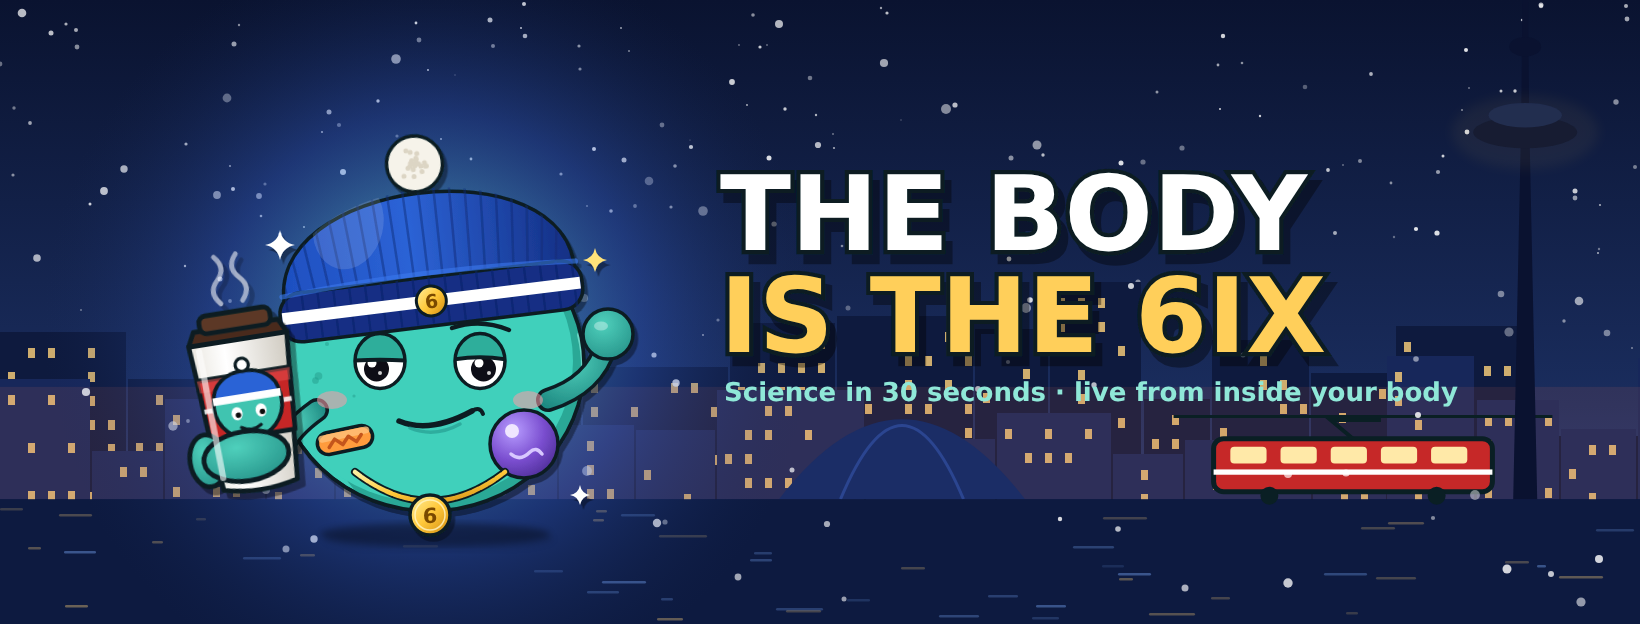
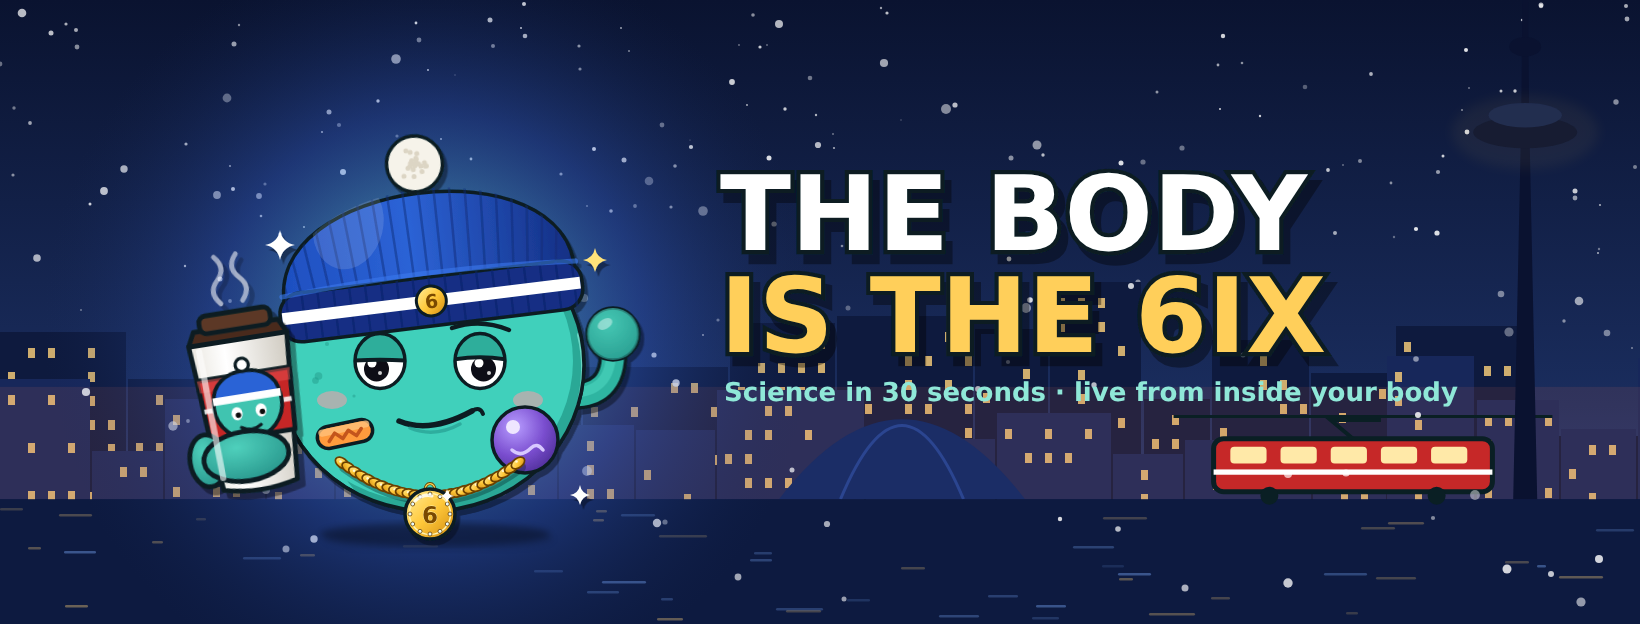
Rebrand v2.3: linked gold chain, redone arms, outfit system (jersey, hoodie, puffer)
Claude-Session: https://claude.ai/code/session_01YLZ2csSozvptdvtP7YVaK8

Changed region(s): [[0.2177, 0.4872, 0.4043, 0.883], [0.1866, 0.6394, 0.2488, 0.7612]]

diff --git a/studio/branding/rebrand-v2/cyto2d.js b/studio/branding/rebrand-v2/cyto2d.js
@@ -47,20 +47,62 @@ function cup(){return `<g transform="translate(-362,92) rotate(-9) scale(1.38)" 
  <g ${O} fill="url(#skinArm)"><ellipse cx="-70" cy="62" rx="26" ry="38"/><ellipse cx="-14" cy="64" rx="62" ry="36"/></g>
  <path d="M-58 -96 L-52 90" stroke="#fff" stroke-width="9" stroke-linecap="round" opacity=".6"/>
 </g>`}
-function cyto(){
+
+function chain(){ // cuban-style links along a curve + bling pendant
+ const P0=[-176,196],C=[0,326],P1=[176,196]; let links='';
+ const N=26;
+ for(let i=0;i<=N;i++){const t=i/N; const x=(1-t)*(1-t)*P0[0]+2*(1-t)*t*C[0]+t*t*P1[0]; const y=(1-t)*(1-t)*P0[1]+2*(1-t)*t*C[1]+t*t*P1[1];
+  const dx=2*(1-t)*(C[0]-P0[0])+2*t*(P1[0]-C[0]), dy=2*(1-t)*(C[1]-P0[1])+2*t*(P1[1]-C[1]); const ang=Math.atan2(dy,dx)*180/Math.PI;
+  const rot=ang+(i%2?90:0), rx=i%2?9:15, ry=i%2?15:9.5;
+  links+=`<ellipse cx="${x.toFixed(1)}" cy="${y.toFixed(1)}" rx="${rx}" ry="${ry}" transform="rotate(${rot.toFixed(1)} ${x.toFixed(1)} ${y.toFixed(1)})" fill="url(#gold)" stroke="#6b4100" stroke-width="3.5"/>`;
+  if(i%2===0) links+=`<circle cx="${(x-3).toFixed(1)}" cy="${(y-3).toFixed(1)}" r="2.6" fill="#fffbe0" opacity=".9"/>`}
+ let gems=''; for(let i=0;i<12;i++){const a=i/12*6.283; gems+=`<circle cx="${(Math.cos(a)*40).toFixed(1)}" cy="${(Math.sin(a)*40).toFixed(1)}" r="4" fill="#e8fbff" stroke="#6b4100" stroke-width="1.6"/>`}
+ return `<path d="M-176 196 Q0 326 176 196" fill="none" stroke="#0a1f24" stroke-width="22" stroke-linecap="round" opacity=".35" transform="translate(5 8)"/>${links}
+ <g transform="translate(0,298)"><ellipse cx="0" cy="-48" rx="10" ry="13" fill="none" stroke="#6b4100" stroke-width="6"/><ellipse cx="0" cy="-48" rx="10" ry="13" fill="none" stroke="#ffd95a" stroke-width="2.5"/>
+  <circle r="50" fill="url(#gold)" ${O}/><circle r="41" fill="none" stroke="#fff3b0" stroke-width="3"/>${gems}
+  <text y="17" text-anchor="middle" font-family="Arial Black, Impact, DejaVu Sans, sans-serif" font-weight="900" font-size="46" fill="#7a4a00" stroke="#fff3b0" stroke-width="1.5" paint-order="stroke">6</text>
+  <path d="M-30 -26 Q-14 -40 4 -36" fill="none" stroke="#fff" stroke-width="6" stroke-linecap="round" opacity=".8"/></g>
+ ${sparkle(34,262,14,'#fff')}`}
+function arm(d,w=42){return `<path d="${d}" fill="none" stroke="#0a1f24" stroke-width="${w+14}" stroke-linecap="round" stroke-linejoin="round"/><path d="${d}" fill="none" stroke="#2fb5a1" stroke-width="${w}" stroke-linecap="round" stroke-linejoin="round"/><path d="${d}" fill="none" stroke="#4fd8c3" stroke-width="${w*0.45}" stroke-linecap="round" stroke-linejoin="round" opacity=".55" transform="translate(-4 -5)"/>`}
+function garment(fit){
+ if(fit==='none') return '';
+ const hem='M-330 104 Q0 236 330 104 L330 340 L-330 340Z';
+ let g=`<g clip-path="url(#bodyclip2)">`;
+ if(fit==='jersey'){
+  g+=`<path d="${hem}" fill="#1f4fc0"/><path d="M-330 214 Q0 292 330 214 L330 236 Q0 314 -330 236Z" fill="#fff"/><path d="M-330 252 Q0 330 330 252 L330 270 Q0 348 -330 270Z" fill="#fff"/>
+   <path d="M-330 104 Q0 236 330 104" fill="none" stroke="#fff" stroke-width="12"/><path d="M-330 104 Q0 236 330 104" fill="none" stroke="#0a1f24" stroke-width="7" transform="translate(0 -9)" opacity=".0"/>
+   <text x="0" y="248" text-anchor="middle" transform="scale(1,.92)" font-family="Arial Black, Impact, DejaVu Sans, sans-serif" font-weight="900" font-size="54" fill="#fff" stroke="#0e2468" stroke-width="5" paint-order="stroke" opacity="0">6IX</text>
+   <path d="M-330 104 Q0 236 330 104 L330 340 L-330 340Z" fill="none" stroke="#0a1f24" stroke-width="7"/>`;
+ } else if(fit==='hoodie'){
+  g+=`<path d="${hem}" fill="#2a2d36"/><path d="M-330 104 Q0 236 330 104" fill="none" stroke="#3b3f4b" stroke-width="16"/>
+   <path d="M-130 206 Q0 262 130 206 L156 306 Q0 338 -156 306Z" fill="#23262e" stroke="#0a1f24" stroke-width="5"/>
+   <path d="M-34 170 L-40 222" stroke="#f4f1e8" stroke-width="7" stroke-linecap="round"/><path d="M34 170 L40 222" stroke="#f4f1e8" stroke-width="7" stroke-linecap="round"/>
+   <circle cx="-40" cy="230" r="6" fill="#f4f1e8"/><circle cx="40" cy="230" r="6" fill="#f4f1e8"/>
+   <path d="M-330 296 Q0 390 330 296 L330 340 L-330 340Z" fill="#171920"/>
+   <path d="M-330 104 Q0 236 330 104 L330 340 L-330 340Z" fill="none" stroke="#0a1f24" stroke-width="7"/>`;
+ } else if(fit==='puffer'){
+  g+=`<path d="${hem}" fill="#f0a722"/>`;
+  for(const y of [150,196,242]) g+=`<path d="M-330 ${y} Q0 ${y+88} 330 ${y}" fill="none" stroke="#b86d0a" stroke-width="7"/>`;
+  g+=`<path d="M-330 104 Q0 236 330 104" fill="none" stroke="#ffd36a" stroke-width="12"/><path d="M0 170 L0 340" stroke="#b86d0a" stroke-width="7"/><path d="M-330 104 Q0 236 330 104 L330 340 L-330 340Z" fill="none" stroke="#0a1f24" stroke-width="7"/>
+   <path d="M-210 215 Q-130 235 -60 222" fill="none" stroke="#ffe39a" stroke-width="8" stroke-linecap="round" opacity=".6"/>`;
+ }
+ return g+`</g>`}
+function cyto(fit='none'){
  let spots=''; for(let i=0;i<22;i++){const a=rnd()*6.28,r=Math.sqrt(rnd())*260;const x=Math.cos(a)*r,y=Math.sin(a)*r*0.95+20;
-  if(Math.abs(x)<190&&y>-100&&y<30) continue; if(Math.abs(x)<130&&y>40&&y<170) continue; if(y<-60) continue; if(x>100&&y>80) continue;if(x<-110&&y>70&&x>-270) continue; if(y>150) continue;
+  if(Math.abs(x)<190&&y>-100&&y<30) continue; if(Math.abs(x)<130&&y>40&&y<170) continue; if(y<-60) continue; if(x>100&&y>80) continue;if(x<-110&&y>70&&x>-270) continue; if(y>130) continue;
   spots+=`<circle cx="${x.toFixed(0)}" cy="${y.toFixed(0)}" r="${(3+rnd()*5).toFixed(1)}" fill="#25a090" opacity=".55"/>`}
  let ribs=''; for(let i=-10;i<=10;i++) ribs+=`<path d="M${i*28} -140 L${i*32} -400" stroke="#102a74" stroke-width="5" opacity=".45"/>`;
  let cuffr=''; for(let i=-9;i<=9;i++) cuffr+=`<path d="M${i*32} -176 L${i*32} -82" stroke="#0e2468" stroke-width="5" opacity=".55"/>`;
  let pom=''; for(let i=0;i<24;i++){const a=rnd()*6.28,r=rnd()*34;pom+=`<circle cx="${(Math.cos(a)*r).toFixed(0)}" cy="${(Math.sin(a)*r).toFixed(0)}" r="5" fill="#dcd5c4"/>`}
+ const hand=(x,y)=>`<g transform="translate(${x},${y})"><circle r="52" fill="#2fb5a1" ${O}/><circle r="52" fill="url(#skinArm)" opacity=".7"/><ellipse cx="-16" cy="-20" rx="16" ry="10" fill="#fff" opacity=".4" transform="rotate(-30 -16 -20)"/></g>`;
  return `<g filter="url(#cut)">
  <ellipse cx="10" cy="338" rx="230" ry="24" fill="#000" opacity=".3" filter="url(#soft)"/>
+ <!-- arms emerge from behind the body edge -->
+ ${arm("M268 60 Q372 70 366 -34",44)}${hand(366,-62)}
+ ${arm("M-268 82 Q-318 112 -322 164",44)}
  <!-- body -->
  <ellipse rx="308" ry="292" fill="#3fd0bb" ${O}/>
  <g clip-path="url(#bodyclip2)">
-  <ellipse cx="60" cy="70" rx="320" ry="300" fill="#2aa896" transform="translate(54 60)" opacity="0"/>
-  <path d="M-310 0 A310 295 0 0 0 310 0 Q300 150 150 260 Q-40 330 -200 230 Q-300 150 -310 0Z" fill="#27a593" opacity=".0"/>
   <ellipse cx="86" cy="76" rx="300" ry="285" fill="#2aa896"/>
   <ellipse cx="-10" cy="-8" rx="296" ry="282" fill="#3fd0bb"/>
   <path d="M-250 -150 Q-170 -250 -40 -250" fill="none" stroke="#fff" stroke-width="26" stroke-linecap="round" opacity=".38"/>
@@ -68,27 +110,16 @@ function cyto(){
   <path d="M300 -60 Q330 60 250 200" fill="none" stroke="#9dfbe9" stroke-width="12" stroke-linecap="round" opacity=".55"/>
   ${spots}
  </g>
+ ${garment(fit)}
  <ellipse rx="308" ry="292" fill="none" ${O}/>
- <!-- raised arm (front) (viewer right) -->
- <path d="M236 70 Q330 40 352 -40" fill="none" stroke="#0a1f24" stroke-width="48" stroke-linecap="round"/><path d="M236 70 Q330 40 352 -40" fill="none" stroke="url(#skinArm)" stroke-width="34" stroke-linecap="round"/>
- <g transform="translate(356,-62)"><circle r="50" fill="url(#skinArm)" ${O}/><ellipse cx="-14" cy="-16" rx="14" ry="9" fill="#fff" opacity=".35"/></g>
- <!-- left arm (to cup) -->
- <path d="M-226 90 Q-282 130 -296 170" fill="none" stroke="#0a1f24" stroke-width="48" stroke-linecap="round"/><path d="M-226 90 Q-282 130 -296 170" fill="none" stroke="url(#skinArm)" stroke-width="34" stroke-linecap="round"/>
  ${eye(-100,-1)}${eye(100,1)}
  <ellipse cx="-196" cy="70" rx="30" ry="18" fill="#ff9aa8" opacity=".55"/><ellipse cx="196" cy="70" rx="30" ry="18" fill="#ff9aa8" opacity=".55"/>
- <!-- smirk -->
  <path d="M-62 112 Q0 138 84 92" fill="none" stroke="#0a1f24" stroke-width="11" stroke-linecap="round"/>
  <path d="M84 92 Q100 82 106 98" fill="none" stroke="#0a1f24" stroke-width="8" stroke-linecap="round"/>
  <path d="M-40 126 Q10 146 60 118" fill="none" stroke="#1f8f86" stroke-width="7" stroke-linecap="round" opacity=".55"/>
- <!-- bandage -->
- <g transform="translate(-170,150) rotate(-12)"><rect x="-56" y="-22" width="112" height="44" rx="22" fill="#ff9b3d" ${O}/><rect x="-52" y="-18" width="104" height="14" rx="7" fill="#ffc07a" opacity=".8"/><path d="M-34 8 L-20 -6 L-6 8 L8 -6 L22 8 L34 -4" fill="none" stroke="#c4541a" stroke-width="7" stroke-linecap="round" stroke-linejoin="round"/></g>
- <!-- nucleus -->
- <g transform="translate(188,158)"><circle r="68" fill="url(#nuc)" ${O}/><circle cx="-24" cy="-26" r="14" fill="#efe6ff"/><path d="M-26 20 Q-8 36 12 16 Q24 4 36 20" fill="none" stroke="#d8c8ff" stroke-width="7" stroke-linecap="round"/></g>
- <!-- gold chain + 6 pendant -->
- <path d="M-150 214 Q0 330 150 214" fill="none" stroke="#0a1f24" stroke-width="16" stroke-linecap="round"/>
- <path d="M-150 214 Q0 330 150 214" fill="none" stroke="url(#gold)" stroke-width="9" stroke-linecap="round" stroke-dasharray="14 4"/>
- <g transform="translate(0,300)"><circle r="40" fill="url(#gold)" ${O}/><circle r="30" fill="none" stroke="#fff6c8" stroke-width="3" opacity=".8"/><text y="15" text-anchor="middle" font-family="Arial Black, Impact, DejaVu Sans, sans-serif" font-weight="900" font-size="42" fill="#7a4a00">6</text></g>
- <!-- toque (tilted) -->
+ <g transform="translate(-170,138) rotate(-12)"><rect x="-56" y="-22" width="112" height="44" rx="22" fill="#ff9b3d" ${O}/><rect x="-52" y="-18" width="104" height="14" rx="7" fill="#ffc07a" opacity=".8"/><path d="M-34 8 L-20 -6 L-6 8 L8 -6 L22 8 L34 -4" fill="none" stroke="#c4541a" stroke-width="7" stroke-linecap="round" stroke-linejoin="round"/></g>
+ <g transform="translate(190,150)"><circle r="66" fill="url(#nuc)" ${O}/><circle cx="-24" cy="-26" r="14" fill="#efe6ff"/><path d="M-26 20 Q-8 36 12 16 Q24 4 36 20" fill="none" stroke="#d8c8ff" stroke-width="7" stroke-linecap="round"/></g>
+ ${chain()}
  <g transform="rotate(-7 0 -150)">
   <path d="M-292 -150 C-312 -410 312 -410 292 -150Z" fill="url(#hat)" ${O}/>
   <g clip-path="url(#hatclip)">${ribs}<ellipse cx="-150" cy="-300" rx="70" ry="90" fill="#fff" opacity=".13" transform="rotate(20 -150 -290)"/></g>
@@ -138,13 +169,13 @@ function extras(w,h,base,withCar,snowSeed){let s=snowSeed;const r=()=>(s=(s*1680
 const pfp=`<svg xmlns="http://www.w3.org/2000/svg" width="1000" height="1000" viewBox="0 0 1000 1000">${defs}
  <clipPath id="circ"><circle cx="500" cy="500" r="486"/></clipPath>
  <g clip-path="url(#circ)">${skyline(1000,1000,780,3)}${extras(1000,1000,780,false,17)}${tower(850,780,700)}
- <circle cx="520" cy="500" r="470" fill="url(#glow)"/><g transform="translate(512,505) scale(.86)">${cyto()}</g></g>
+ <circle cx="520" cy="500" r="470" fill="url(#glow)"/><g transform="translate(512,505) scale(.86)">${cyto(process.env.FIT||'none')}</g></g>
  <circle cx="500" cy="500" r="486" fill="none" stroke="#ffcf5a" stroke-width="28"/></svg>`;
 fs.writeFileSync('pfp.svg',pfp);
 // COVER 1640x624 (FB) — character left-center, text right, safe middle
 const cover=(w,h,sc,cx,cy,tx,fs1,fs2)=>`<svg xmlns="http://www.w3.org/2000/svg" width="${w}" height="${h}" viewBox="0 0 ${w} ${h}">${defs}
  ${skyline(w,h,h*0.8,9)}${extras(w,h,h*0.8,true,23)}${tower(w*0.93,h*0.8,h*0.98)}
- <circle cx="${cx}" cy="${cy-40}" r="${h*0.62}" fill="url(#glow)"/><g transform="translate(${cx},${cy}) scale(${sc})">${cyto()}</g>
+ <circle cx="${cx}" cy="${cy-40}" r="${h*0.62}" fill="url(#glow)"/><g transform="translate(${cx},${cy}) scale(${sc})">${cyto(process.env.FIT||'none')}</g>
  <g font-family="Arial Black, Impact, DejaVu Sans, sans-serif" font-weight="900">
   <text x="${tx}" y="${h*0.4}" font-size="${fs1}" fill="#fff" stroke="#0a1f24" stroke-width="${fs1*0.08}" paint-order="stroke" filter="url(#cut)">THE BODY</text>
   <text x="${tx}" y="${h*0.4+fs1*0.98}" font-size="${fs1}" fill="#ffcf5a" stroke="#0a1f24" stroke-width="${fs1*0.08}" paint-order="stroke" filter="url(#cut)">IS THE 6IX</text>
@@ -153,3 +184,12 @@ const cover=(w,h,sc,cx,cy,tx,fs1,fs2)=>`<svg xmlns="http://www.w3.org/2000/svg" 
 fs.writeFileSync('cover.svg',cover(1640,624,.5,430,365,720,104,26));
 fs.writeFileSync('banner.svg',cover(2560,1440,.62,1030,860,1290,170,46));
 
+
+// OUTFIT SHEET
+const fits=[['none','BASE'],['jersey','HOCKEY JERSEY'],['hoodie','BLACK HOODIE'],['puffer','PUFFER']];
+const sheet=`<svg xmlns="http://www.w3.org/2000/svg" width="2400" height="1100" viewBox="0 0 2400 1100">${defs}
+ <rect width="2400" height="1100" fill="url(#sky)"/>
+ ${fits.map((f,i)=>`<g transform="translate(${i*600},0)"><circle cx="300" cy="520" r="290" fill="url(#glow)"/><g transform="translate(300,560) scale(.5)">${cyto(f[0])}</g>
+  <text x="300" y="1010" text-anchor="middle" font-family="Arial Black, Impact, DejaVu Sans, sans-serif" font-weight="900" font-size="44" fill="#ffcf5a" stroke="#0a1f24" stroke-width="6" paint-order="stroke">${f[1]}</text></g>`).join('')}
+</svg>`;
+fs.writeFileSync('fits.svg',sheet);
